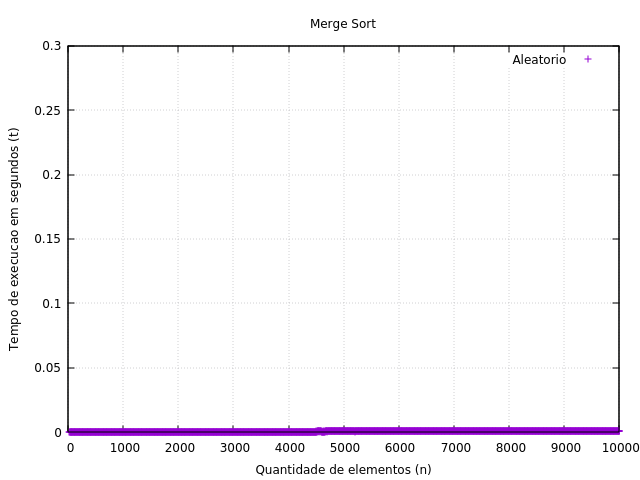
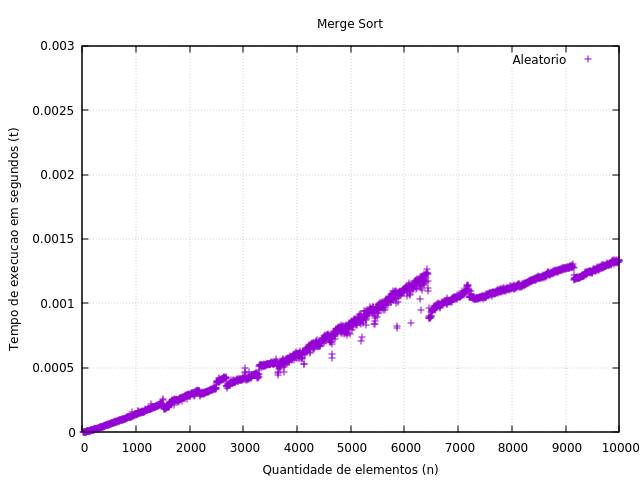
entregue relatorio 1

diff --git a/relatorio.c b/relatorio.c
@@ -26,7 +26,7 @@ set title "Metodos de Ordenacao"
 set xlabel "Quantidade de elementos (n)"
 set ylabel "Tempo de execucao em segundos (t)"
 set yrange[0:0.3]
-set yrange[0:0.00003]
+set yrange[0:0.0003]
 */
 
 //plot "bubble_sort-aleatorio.dat" title "Aleatorio"
@@ -54,7 +54,8 @@ plot "merge_sort-aleatorio.dat" title "Aleatorio", "merge_sort-ordenado.dat" tit
 */
 
 //plot "bubble_sort-aleatorio.dat" title "Bubble Sort", "insertion_sort-aleatorio.dat" title "Insertion Sort", "merge_sort-aleatorio.dat" title "Merge Sort"
-//plot "bubble.dat" title "Bubble Sort" smooth bezier, "insertion.dat" title "Insertion Sort" smooth bezier, "merge.dat" title "Merge Sort" smooth bezier
+//plot "bubble_sort-ordenado.dat" title "Bubble Sort", "insertion_sort-ordenado.dat" title "Insertion Sort", "merge_sort-ordenado.dat" title "Merge Sort"
+//plot "bubble_sort-ordenado_inverso.dat" title "Bubble Sort", "insertion_sort-ordenado_inverso.dat" title "Insertion Sort", "merge_sort-ordenado_inverso.dat" title "Merge Sort"
 
 #include <stdio.h>
 #include <stdlib.h>
